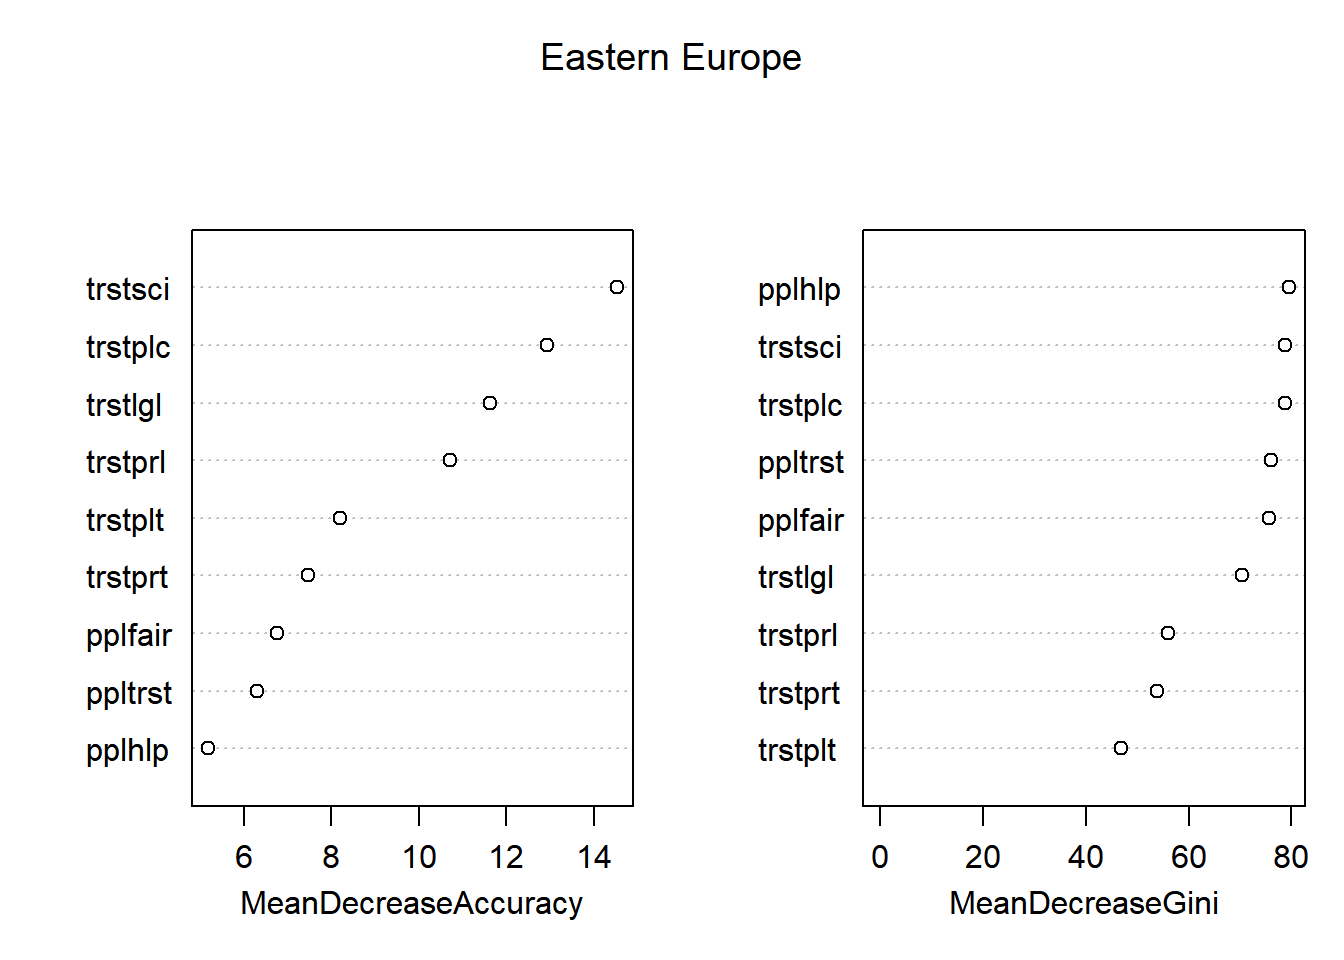
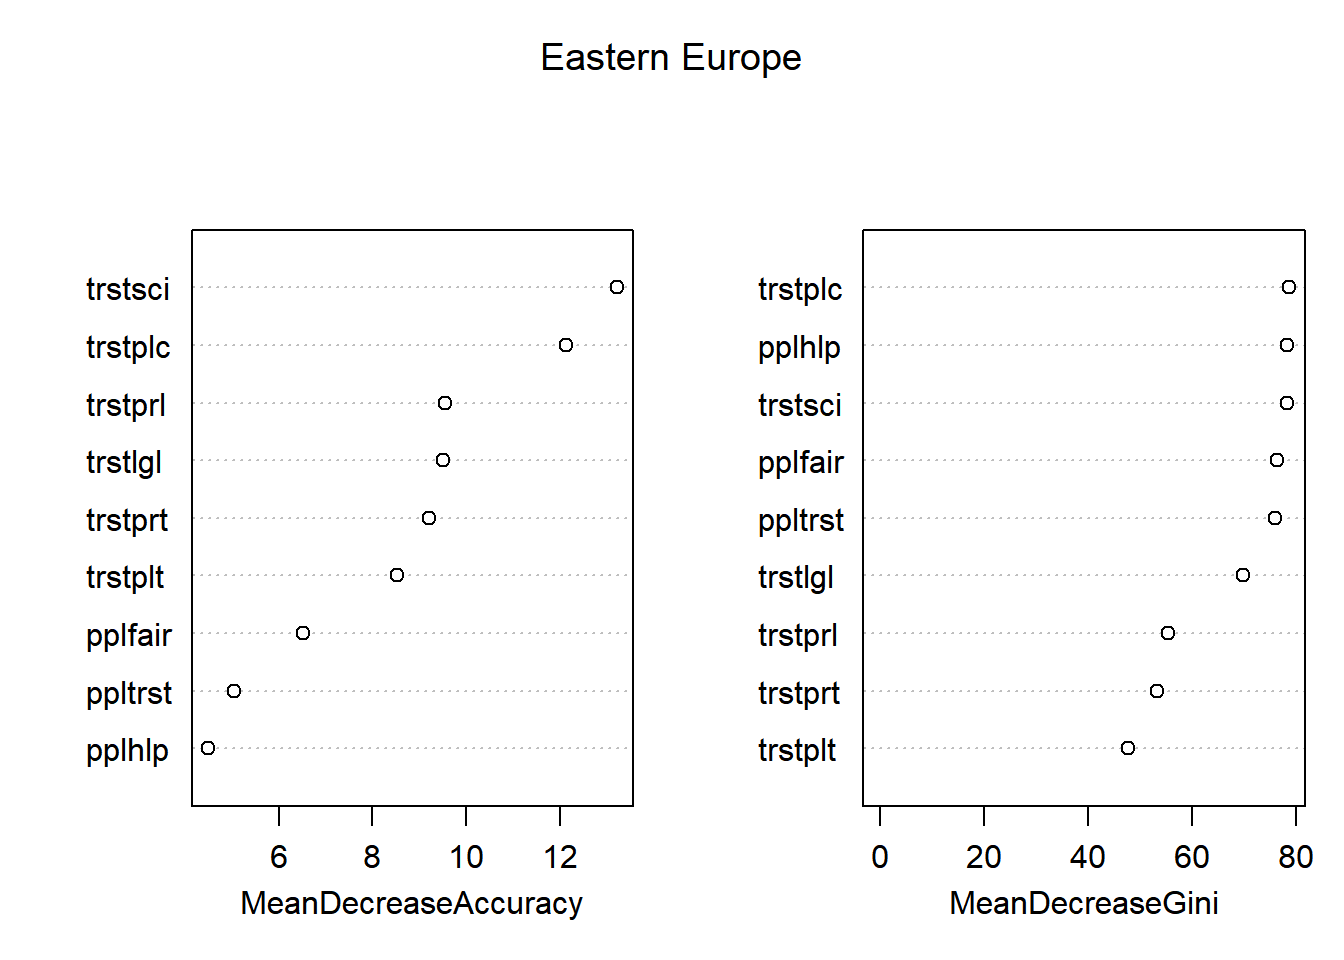
Random Forest Confusion Matrix and Accuracy Fixed

diff --git a/DecisionTreesPlots.html b/DecisionTreesPlots.html
@@ -113,16 +113,16 @@ Pruned Tree for Central Europe :</code></pre>
 </div>
 </div>
 <div class="cell-output cell-output-stdout">
-<pre><code>Central Europe Random Forest Variable Importance              High         Low     Medium MeanDecreaseAccuracy MeanDecreaseGini
-ppltrst  4.0999688  0.08054297   2.959753             4.872513         156.8066
-pplhlp  12.9452133 -2.32703289   2.048990            12.607562         165.3941
-pplfair 15.2396092 -3.70057592   1.254504            14.824453         157.8610
-trstprl 22.8736800  5.32600081   6.195869            24.697960         125.9281
-trstlgl 18.0948691  8.68589627   1.262577            19.512029         143.3735
-trstplc  9.2426589  7.01386954   1.439649            10.714278         153.7541
-trstplt 41.2376497 -9.11732413 -13.950927            38.058867         130.4949
-trstprt 36.2896715 -4.53465454 -12.021190            33.265963         129.5628
-trstsci  0.3086722 19.40376864  14.772521             7.227775         160.5054</code></pre>
+<pre><code>Central Europe Random Forest Variable Importance              High       Low     Medium MeanDecreaseAccuracy MeanDecreaseGini
+ppltrst  4.0902980 -2.054502   3.913397             4.722438         155.6989
+pplhlp  12.3252504 -2.880887   2.483283            12.219370         164.5481
+pplfair 17.3746871 -3.858924   4.523031            17.485530         157.5022
+trstprl 23.9469106  5.621221   5.614728            25.939614         125.4086
+trstlgl 16.8485398  8.420437   3.891724            19.264587         142.5321
+trstplc  8.4948303  7.340642   1.002824             9.725273         155.4065
+trstplt 41.0717702 -7.298136 -13.316589            38.726834         129.8188
+trstprt 36.7191604 -2.536069 -10.262383            33.675689         127.3727
+trstsci -0.6307304 17.541912  14.702810             5.793368         158.9449</code></pre>
 </div>
 <div class="cell-output-display">
 <div>
@@ -130,6 +130,17 @@ trstsci  0.3086722 19.40376864  14.772521             7.227775         160.5054<
 <p><img src="DecisionTreesPlots_files/figure-html/unnamed-chunk-2-4.png" class="img-fluid figure-img" width="672"></p>
 </figure>
 </div>
+</div>
+<div class="cell-output cell-output-stdout">
+<pre><code>
+=== Random Forest Confusion Matrix for Central Europe ===
+           region.ytest
+region.pred High  Low Medium
+     High   7087  241    494
+     Low       5    2      0
+     Medium    6    1      4
+
+Random Forest Accuracy for Central Europe: 90.47%</code></pre>
 </div>
 </div>
 <p>[analysis]</p>
@@ -186,15 +197,15 @@ Pruned Tree for Eastern Europe :</code></pre>
 </div>
 <div class="cell-output cell-output-stdout">
 <pre><code>Eastern Europe Random Forest Variable Importance             High        Low     Medium MeanDecreaseAccuracy MeanDecreaseGini
-ppltrst  7.632950 -4.0224276 -0.6742741             6.303199         76.05745
-pplhlp   5.686757 -1.5919728  0.4662417             5.183932         79.48397
-pplfair  7.768800 -2.0813473 -0.8346777             6.769542         75.69196
-trstprl  9.936465  2.9733539  1.3472451            10.713014         56.05078
-trstlgl 11.302375  1.6358846  1.6976037            11.622976         70.35363
-trstplc 12.389509  1.5410600  3.0859215            12.943056         78.76378
-trstplt  8.335689  0.3998364 -0.3409177             8.194828         46.87581
-trstprt  7.493819  1.0323245  0.1310602             7.471614         53.85369
-trstsci 10.889451  6.5776284  9.1361204            14.531124         78.80845</code></pre>
+ppltrst  6.889980 -5.3335749 -1.8481021             5.051663         75.97363
+pplhlp   6.069161 -2.5308572 -2.2757363             4.487405         78.39719
+pplfair  7.926904 -2.1427176 -1.5547858             6.524497         76.44314
+trstprl  9.201684  3.6139616  0.4246170             9.541274         55.54261
+trstlgl 10.133462 -2.6680590  0.4368216             9.500642         69.92298
+trstplc 12.188130  2.6400667  0.8312947            12.140866         78.69794
+trstplt  9.544265 -1.5418680 -2.5186067             8.531685         47.81492
+trstprt  9.728802 -0.9936628 -0.2039233             9.215759         53.36000
+trstsci 10.327659  6.0703700  7.7172652            13.216328         78.30219</code></pre>
 </div>
 <div class="cell-output-display">
 <div>
@@ -202,6 +213,17 @@ trstsci 10.889451  6.5776284  9.1361204            14.531124         78.80845</c
 <p><img src="DecisionTreesPlots_files/figure-html/unnamed-chunk-3-4.png" class="img-fluid figure-img" width="672"></p>
 </figure>
 </div>
+</div>
+<div class="cell-output cell-output-stdout">
+<pre><code>
+=== Random Forest Confusion Matrix for Eastern Europe ===
+           region.ytest
+region.pred High  Low Medium
+     High   1832  142    222
+     Low       6    1      0
+     Medium    8    0      6
+
+Random Forest Accuracy for Eastern Europe: 82.95%</code></pre>
 </div>
 </div>
 <p>[analysis]</p>
@@ -257,16 +279,16 @@ Pruned Tree for Southern Europe :</code></pre>
 </div>
 </div>
 <div class="cell-output cell-output-stdout">
-<pre><code>SOuthern Europe Random Forest Variable Importance            High        Low     Medium MeanDecreaseAccuracy MeanDecreaseGini
-ppltrst 22.24582 -3.2875894  2.5352474             21.29192         156.1478
-pplhlp  17.36293 -0.6494461 -3.7267072             15.88306         159.8679
-pplfair 18.78373  2.4974282  2.1120097             19.00667         150.6969
-trstprl 23.28586 -4.6447442 -0.3657281             22.85148         137.1359
-trstlgl 30.99441 -4.4441900  0.3752378             30.00829         140.2275
-trstplc 31.50324  3.2309465 -4.0572027             30.50261         153.8932
-trstplt 37.15071 -8.2325529 -3.9452577             35.90233         116.5866
-trstprt 30.50609 -1.5355346 -0.1263856             30.32206         120.2277
-trstsci 30.35444 13.5156505 10.0435928             33.39164         160.8961</code></pre>
+<pre><code>SOuthern Europe Random Forest Variable Importance            High         Low     Medium MeanDecreaseAccuracy MeanDecreaseGini
+ppltrst 19.91498  -3.9706170  0.3570863             18.79624         157.1929
+pplhlp  14.81778   0.8121901 -3.6022937             13.57601         161.1389
+pplfair 19.44356   2.9256054  0.8353347             19.62534         150.7077
+trstprl 23.38001  -8.2799206  0.1783372             22.05468         137.9562
+trstlgl 32.60438  -6.9798506  0.2757977             31.74744         141.1023
+trstplc 32.35363   0.4218030 -4.6703752             30.93344         153.6530
+trstplt 36.38325 -10.5743564 -7.4681223             34.36867         115.5692
+trstprt 30.16652  -1.7806010 -1.9950345             29.58330         118.6661
+trstsci 27.16124  11.5038726  8.1239252             29.96972         160.6446</code></pre>
 </div>
 <div class="cell-output-display">
 <div>
@@ -274,6 +296,17 @@ trstsci 30.35444 13.5156505 10.0435928             33.39164         160.8961</co
 <p><img src="DecisionTreesPlots_files/figure-html/unnamed-chunk-4-4.png" class="img-fluid figure-img" width="672"></p>
 </figure>
 </div>
+</div>
+<div class="cell-output cell-output-stdout">
+<pre><code>
+=== Random Forest Confusion Matrix for SOuthern Europe ===
+           region.ytest
+region.pred High  Low Medium
+     High   5189  266    517
+     Low       4    2      3
+     Medium   10    0      6
+
+Random Forest Accuracy for SOuthern Europe: 86.66%</code></pre>
 </div>
 </div>
 <p>[analysis]</p>
@@ -330,15 +363,15 @@ Pruned Tree for West-Central Europe :</code></pre>
 </div>
 <div class="cell-output cell-output-stdout">
 <pre><code>West-Central Europe Random Forest Variable Importance             High        Low     Medium MeanDecreaseAccuracy MeanDecreaseGini
-ppltrst  4.906544  3.6050131  1.7816672             5.620867         45.09680
-pplhlp   5.513005  2.2076716 -3.3233092             4.423856         47.24875
-pplfair 11.622698  5.9110053 -0.2936381            11.851505         43.68249
-trstprl  7.757958  5.0224087  7.2562385             9.763642         38.70897
-trstlgl 12.167167  0.8873016 -3.2060532            11.502534         40.91646
-trstplc  4.351688  5.2730895 -0.8249172             4.552433         44.45889
-trstplt 22.674996 -2.4703208 -3.4112115            21.288384         34.97446
-trstprt 12.721607  2.0833919 -0.4089200            12.525705         33.58041
-trstsci 10.397237  4.4681492 11.8820854            13.960416         53.06219</code></pre>
+ppltrst  5.612053  5.4603625  3.5114914             7.036351         45.30136
+pplhlp   5.760221  1.5774690 -0.5472433             5.446430         46.74159
+pplfair  9.549650  5.3576575 -0.1356192             9.897588         44.05564
+trstprl  7.497466  4.8303370  5.7233296             9.261624         39.27118
+trstlgl 12.542193  0.6952751 -1.7849647            12.079332         40.77122
+trstplc  4.499818  5.8791329 -2.7241888             4.201775         44.74001
+trstplt 20.241848 -1.2220855 -2.4575730            19.523271         35.98083
+trstprt 14.165498  0.8860432 -2.9298023            13.613898         33.32254
+trstsci 10.884857  5.8002170 10.9383707            14.626807         51.77161</code></pre>
 </div>
 <div class="cell-output-display">
 <div>
@@ -346,6 +379,17 @@ trstsci 10.397237  4.4681492 11.8820854            13.960416         53.06219</c
 <p><img src="DecisionTreesPlots_files/figure-html/unnamed-chunk-5-4.png" class="img-fluid figure-img" width="672"></p>
 </figure>
 </div>
+</div>
+<div class="cell-output cell-output-stdout">
+<pre><code>
+=== Random Forest Confusion Matrix for West-Central Europe ===
+           region.ytest
+region.pred High  Low Medium
+     High   1932   54    161
+     Low       1    0      0
+     Medium    1    1      0
+
+Random Forest Accuracy for West-Central Europe: 89.86%</code></pre>
 </div>
 </div>
 <p>[analysis]</p>
@@ -401,16 +445,16 @@ Pruned Tree for Nordics :</code></pre>
 </div>
 </div>
 <div class="cell-output cell-output-stdout">
-<pre><code>Nordics Random Forest Variable Importance              High         Low     Medium MeanDecreaseAccuracy MeanDecreaseGini
-ppltrst  1.7915197  1.86396272  1.7275736           2.31097926         24.50909
-pplhlp  -6.2573462  5.72457375  4.2523283          -4.73252344         23.02416
-pplfair -1.3875341  4.49955756  3.0942600          -0.34215893         24.00094
-trstprl  7.7018525  4.04106645  6.5640275           8.98142646         22.04638
-trstlgl  0.1016587  1.59710957 -0.9639846           0.07418447         22.12454
-trstplc  4.0679601  0.87717414  0.9329468           4.25547616         26.12784
-trstplt 12.6671366 -0.01257327 -1.9772895          12.43998283         17.47377
-trstprt 16.3314891  2.93592986  2.4639428          16.82323401         20.07180
-trstsci -9.1980740  3.23909469  4.9000959          -7.71816330         25.52274</code></pre>
+<pre><code>Nordics Random Forest Variable Importance             High       Low     Medium MeanDecreaseAccuracy MeanDecreaseGini
+ppltrst  3.240077 2.7120851  1.4865808            3.7215797         24.65909
+pplhlp  -6.518629 3.9660710  3.0160382           -5.3113033         22.93274
+pplfair -2.816596 7.4823268  2.2766477           -1.5759723         24.29493
+trstprl  5.632028 4.3231877  7.0196772            6.9788510         22.36639
+trstlgl -1.049458 4.9245335 -1.6041565           -0.8718425         22.57334
+trstplc  2.270554 1.3535989 -0.4542979            2.3408926         26.33579
+trstplt 10.946982 0.6980968  0.5694000           11.0066772         17.53896
+trstprt 15.102498 3.1661302  2.7544016           15.6350497         19.47518
+trstsci -7.689876 3.1325185  3.0476365           -6.4836201         25.63892</code></pre>
 </div>
 <div class="cell-output-display">
 <div>
@@ -418,6 +462,17 @@ trstsci -9.1980740  3.23909469  4.9000959          -7.71816330         25.52274<
 <p><img src="DecisionTreesPlots_files/figure-html/unnamed-chunk-6-4.png" class="img-fluid figure-img" width="672"></p>
 </figure>
 </div>
+</div>
+<div class="cell-output cell-output-stdout">
+<pre><code>
+=== Random Forest Confusion Matrix for Nordics ===
+           region.ytest
+region.pred High  Low Medium
+     High   2879   28     78
+     Low       0    0      0
+     Medium    3    0      0
+
+Random Forest Accuracy for Nordics: 96.35%</code></pre>
 </div>
 </div>
 <p>[analysis]</p>
@@ -473,16 +528,16 @@ Pruned Tree for United Kingdom :</code></pre>
 </div>
 </div>
 <div class="cell-output cell-output-stdout">
-<pre><code>United Kingdom Random Forest Variable Importance             High        Low     Medium MeanDecreaseAccuracy MeanDecreaseGini
-ppltrst  5.259605  2.4520811 -3.9259039             4.345360         32.29426
-pplhlp  10.382465 -2.0391428 -1.5957698             9.254325         31.98007
-pplfair  9.744407 -1.6947394  2.6303583             9.828653         29.58750
-trstprl  8.037112  0.7345263 -2.6737864             7.198038         33.76075
-trstlgl  4.533143 -0.3317606 -3.2705426             3.438005         32.67346
-trstplc  5.477998  2.2894095 -0.1866881             5.545713         35.41817
-trstplt  9.110599 -1.0535141 -0.6559330             8.950974         26.85251
-trstprt 11.896245 -0.4366106 -2.8463314            10.944476         25.92292
-trstsci  8.352923  5.7619104  0.6253982             8.924867         35.75002</code></pre>
+<pre><code>United Kingdom Random Forest Variable Importance            High         Low      Medium MeanDecreaseAccuracy MeanDecreaseGini
+ppltrst 5.677030  2.68983596 -2.54456911             5.026167         32.16040
+pplhlp  6.843082 -0.34196419 -1.23344635             6.311252         32.26730
+pplfair 6.444983 -1.89040706  3.04095991             6.772452         30.33347
+trstprl 8.045312  0.80500827 -4.24956588             6.707437         33.00717
+trstlgl 4.623828  1.48484595 -0.92481703             4.374643         32.43848
+trstplc 7.374487  1.43148172 -0.05557574             7.359372         35.84967
+trstplt 9.232850  1.19125592  0.80856898             9.294963         26.41178
+trstprt 9.879684  0.01084002 -2.34836914             9.107360         27.15227
+trstsci 7.080909  8.20877990  0.53995755             8.137049         35.93605</code></pre>
 </div>
 <div class="cell-output-display">
 <div>
@@ -490,6 +545,17 @@ trstsci  8.352923  5.7619104  0.6253982             8.924867         35.75002</c
 <p><img src="DecisionTreesPlots_files/figure-html/unnamed-chunk-7-4.png" class="img-fluid figure-img" width="672"></p>
 </figure>
 </div>
+</div>
+<div class="cell-output cell-output-stdout">
+<pre><code>
+=== Random Forest Confusion Matrix for United Kingdom ===
+           region.ytest
+region.pred High  Low Medium
+     High   1184   46    105
+     Low       0    0      0
+     Medium    0    0      1
+
+Random Forest Accuracy for United Kingdom: 88.70%</code></pre>
 </div>
 </div>
 <p>[analysis]</p>
